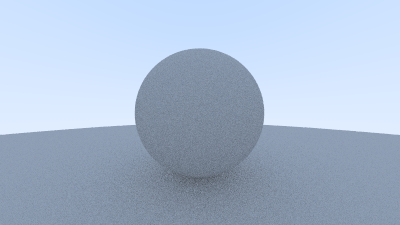
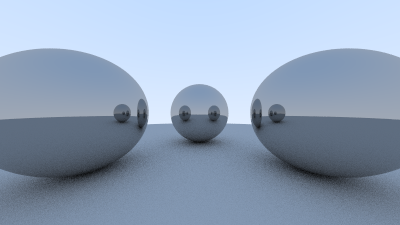
added reflections

diff --git a/src/main.rs b/src/main.rs
@@ -5,35 +5,61 @@ use rand::rngs::ThreadRng;
 use rand::Rng;
 
 const ASPECT_RATIO: f32 = 16.0 / 9.0;
-const WIDTH: u32 = 400;
+const WIDTH: u32 = 1000;
 const HEIGHT: u32 = (WIDTH as f32 / ASPECT_RATIO) as u32;
 
-const SAMPLES_PER_PIXEL: u32 = 40;
-const MAX_DEPTH: i32 = 10;
+const SAMPLES_PER_PIXEL: u32 = 100;
+const MAX_DEPTH: i32 = 50;
 
 fn main() {
     println!("Begin render {}x{}", WIDTH, HEIGHT);
 
     // Image
     let mut image_buffer = ImageBuffer::new(WIDTH, HEIGHT);
+    // Camera
+    let camera: Camera = Camera::new();
+    let mut rng = rand::thread_rng();
 
     // World
-    let hittable_list: HittableList = HittableList {
+    let mut hittable_list: HittableList = HittableList {
         objects: Vec::from([
             Box::new(Sphere {
-                center: Vec3::new(0.0, 0.0, -1.0),
+                center: Vec3::new(-1.0, 0.0, -1.0),
                 radius: 0.5,
+                metal: true,
+            }) as Box<_>,
+            Box::new(Sphere {
+                center: Vec3::new(0.0, 0.0, -2.0),
+                radius: 0.5,
+                metal: true,
+            }) as Box<_>,
+            Box::new(Sphere {
+                center: Vec3::new(1.0, 0.0, -1.0),
+                radius: 0.5,
+                metal: true,
             }) as Box<_>,
             Box::new(Sphere {
                 center: Vec3::new(0.0, -100.5, -1.0),
                 radius: 100.0,
+                metal: false,
             }) as Box<_>,
         ]),
     };
 
-    // Camera
-    let camera: Camera = Camera::new();
-    let mut rng = rand::thread_rng();
+    for n in 0..100 {
+        hittable_list.objects.insert(
+            0,
+            Box::new(Sphere {
+                center: Vec3::new(
+                    rng.gen_range(0.0..60.0) - 30.0,
+                    rng.gen_range(0.0..20.0),
+                    -rng.gen_range(0.0..30.0) + 5.0,
+                ),
+                radius: rng.gen_range(0.1..0.4),
+                metal: false,
+            }) as Box<_>,
+        );
+    }
 
     let pixel_multiplier = Vec3::new(255.0, 255.0, 255.0);
     let samples = Vec3::new(
@@ -117,15 +143,23 @@ pub struct HitRecord {
     p: Vec3,
     normal: Vec3,
     t: f32,
+    material: Box<dyn Material + 'static>,
 }
 
 impl HitRecord {
-    pub fn new(r: &Ray, normal: Vec3, t: f32, p: Vec3) -> Self {
+    pub fn new(
+        r: &Ray,
+        normal: Vec3,
+        t: f32,
+        p: Vec3,
+        material: Box<dyn Material + 'static>,
+    ) -> Self {
         let front_face = Vec3::dot(r.dir, normal) < 0.0;
         HitRecord {
             t: t,
             p: p,
             normal: if front_face { normal } else { -normal },
+            material: material,
         }
     }
 }
@@ -137,6 +171,7 @@ pub trait Hittable {
 pub struct Sphere {
     pub center: Vec3,
     pub radius: f32,
+    pub metal: bool,
 }
 
 impl Hittable for Sphere {
@@ -162,7 +197,27 @@ impl Hittable for Sphere {
         }
 
         let p = r.at(root);
-        return Some(HitRecord::new(r, (p - self.center) / self.radius, root, p));
+        if (self.metal) {
+            return Some(HitRecord::new(
+                r,
+                (p - self.center) / self.radius,
+                root,
+                p,
+                Box::new(Metal {
+                    albedo: Vec3::new(0.5, 0.5, 0.5),
+                }),
+            ));
+        } else {
+            return Some(HitRecord::new(
+                r,
+                (p - self.center) / self.radius,
+                root,
+                p,
+                Box::new(Lambertian {
+                    albedo: Vec3::new(0.5, 0.5, 0.5),
+                }),
+            ));
+        }
     }
 }
 
@@ -203,13 +258,14 @@ impl Ray {
         if hit.is_some() {
             // Draw collision surface normal
             let rec = hit.unwrap();
-            let target = rec.p + Ray::random_in_unit_sphere(rng, rec.normal);
-            return 0.5
-                * Ray {
-                    pos: rec.p,
-                    dir: target - rec.p,
-                }
-                .color(hittable, rng, depth - 1);
+            let cc = rec.material.scatter(self, &rec, rng);
+
+            if (cc.is_some()) {
+                let ccc = cc.unwrap();
+                return ccc.1 * ccc.0.color(hittable, rng, depth - 1);
+            }
+
+            return Vec3::new(0.0, 0.0, 0.0);
         }
 
         // Background gradient
@@ -233,21 +289,87 @@ impl Ray {
         }
     }
 
-    pub fn random_in_unit_sphere(rng: &mut ThreadRng, normal: Vec3) -> Vec3 {
+    pub fn random_in_unit_sphere(rng: &mut ThreadRng) -> Vec3 {
         let die = Uniform::from(-1.0..1.0);
 
         while true {
             let p = Vec3::new(die.sample(rng), die.sample(rng), die.sample(rng));
 
             if p.length_squared() < 1.0 {
-                if (Vec3::dot(p, normal) > 0.0) {
-                    return p;
-                }
-
-                return -p;
+                return p;
             }
         }
 
         return Vec3::new(0.0, 0.0, 0.0);
+    }
+
+    pub fn random_in_hemisphere(p: Vec3, normal: Vec3) -> Vec3 {
+        if (Vec3::dot(p, normal) > 0.0) {
+            return p;
+        }
+
+        return -p;
+    }
+}
+
+pub trait Material {
+    fn scatter(
+        &self,
+        r_in: &Ray,
+        hitRecord: &HitRecord,
+        rng: &mut ThreadRng,
+    ) -> Option<(Ray, Vec3)>;
+}
+
+pub struct Lambertian {
+    pub albedo: Vec3,
+}
+
+impl Material for Lambertian {
+    fn scatter(&self, r_in: &Ray, rec: &HitRecord, rng: &mut ThreadRng) -> Option<(Ray, Vec3)> {
+        let scatter_direction = rec.normal + Ray::random_in_unit_sphere(rng);
+
+        let abs = scatter_direction.abs();
+        if (abs.x < 1e-8 && abs.y < 1e-8 && abs.z < 1e-8) {
+            return Some((
+                Ray {
+                    pos: rec.p,
+                    dir: rec.normal,
+                },
+                self.albedo,
+            ));
+        }
+
+        return Some((
+            Ray {
+                pos: rec.p,
+                dir: scatter_direction,
+            },
+            self.albedo,
+        ));
+    }
+}
+
+pub struct Metal {
+    pub albedo: Vec3,
+}
+
+impl Material for Metal {
+    fn scatter(&self, r_in: &Ray, rec: &HitRecord, rng: &mut ThreadRng) -> Option<(Ray, Vec3)> {
+        let v = r_in.dir.normalize();
+        let n = rec.normal;
+        let reflected = v - 2.0 * Vec3::dot(v, n) * n;
+
+        if (Vec3::dot(reflected, rec.normal) > 0.0) {
+            return Some((
+                Ray {
+                    pos: rec.p,
+                    dir: reflected,
+                },
+                self.albedo,
+            ));
+        }
+
+        return None;
     }
 }
